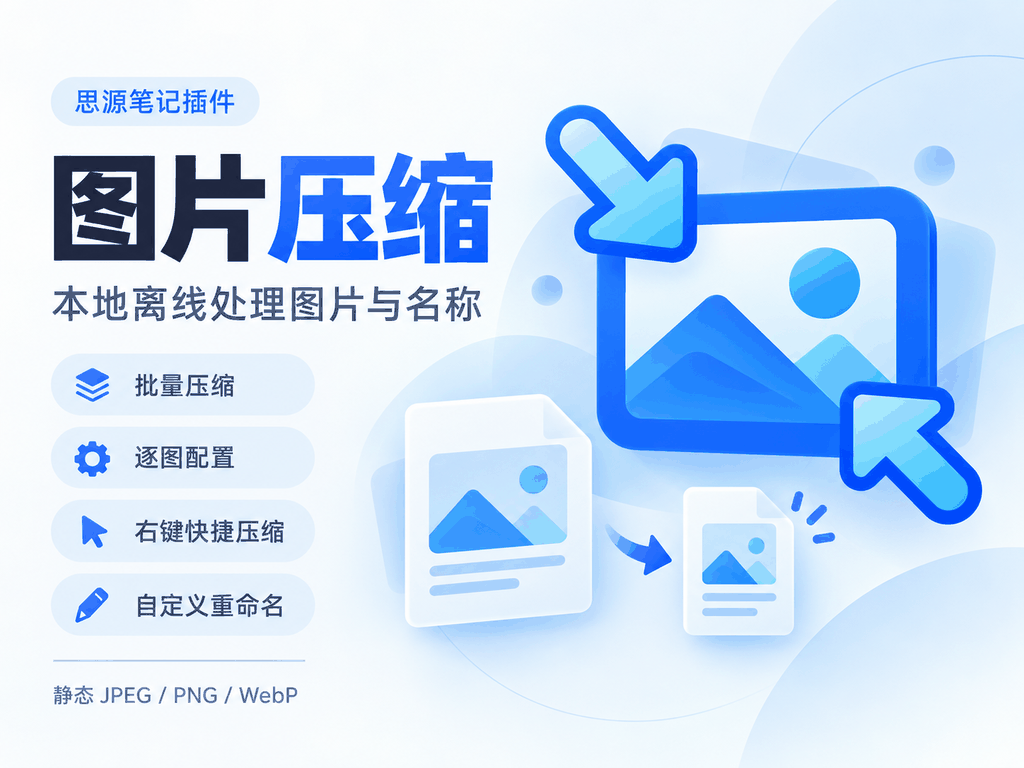
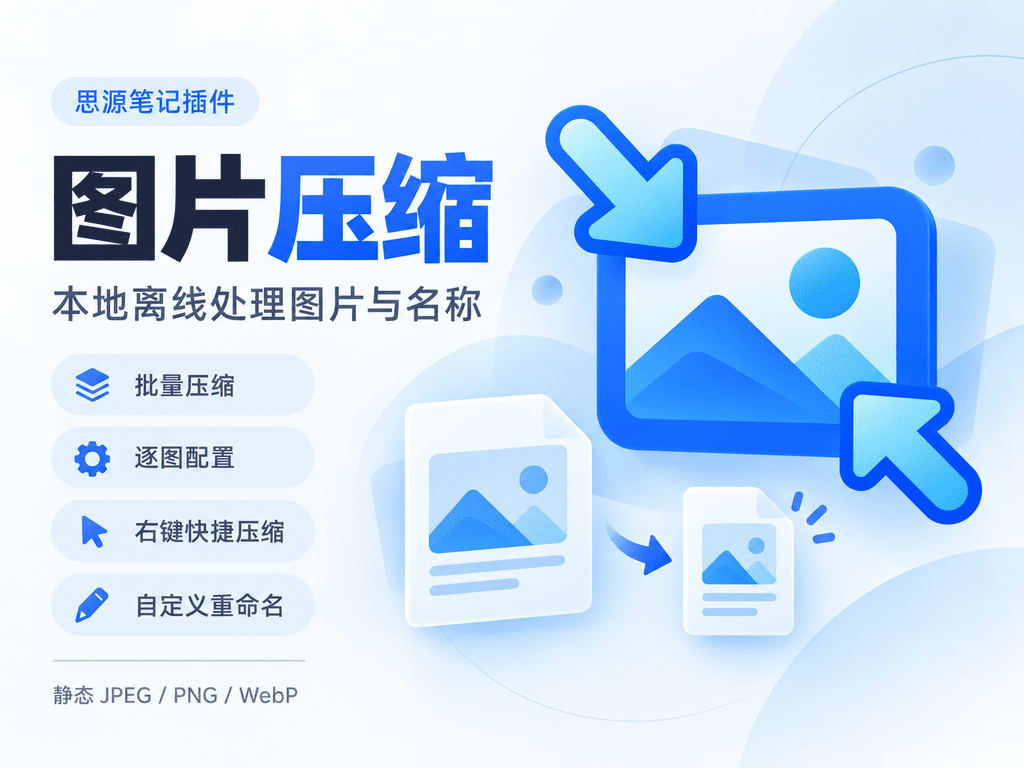
Release 0.1.1: reduce package and preview size

diff --git a/scripts/export-marketplace-assets.py b/scripts/export-marketplace-assets.py
@@ -1,18 +1,41 @@
 """Export generated artwork at the marketplace's required sizes; preserve icon alpha."""
+import argparse
 import json
+import shutil
+import subprocess
+import tempfile
 from pathlib import Path
 from PIL import Image
 
 ROOT = Path(__file__).resolve().parents[1]
 BRAND = ROOT / "assets" / "branding"
 
-def export(source, destination, size, limit=None):
+parser = argparse.ArgumentParser(description=__doc__)
+parser.add_argument("--pngquant", default="pngquant", help="Path to the pngquant executable")
+args = parser.parse_args()
+pngquant = shutil.which(args.pngquant)
+if not pngquant:
+    parser.error("pngquant is required for the compact preview; install it or pass --pngquant PATH")
+
+def export(source, destination, size, limit=None, compact=False):
     image = Image.open(BRAND / source)
     image = image.resize(size, Image.Resampling.LANCZOS)
     destination = ROOT / destination
     destination.parent.mkdir(parents=True, exist_ok=True)
-    image.save(destination, optimize=True)
-    if limit and destination.stat().st_size > limit:
+    if compact:
+        # Quantize from the full-colour master, never from an already reduced palette.
+        with tempfile.TemporaryDirectory(prefix="syic-preview-") as temporary:
+            input_path = Path(temporary) / "preview-rgb.png"
+            output_path = Path(temporary) / "preview.png"
+            image.convert("RGB").save(input_path)
+            subprocess.run([pngquant, "--quality=75-85", "--speed=1", "--strip",
+                            "--output", str(output_path), "--", str(input_path)], check=True)
+            if limit:
+                assert output_path.stat().st_size <= limit, "Compact preview exceeds size limit"
+            shutil.copyfile(output_path, destination)
+    else:
+        image.save(destination, optimize=True)
+    if not compact and limit and destination.stat().st_size > limit:
         # Export optimisation only. Master illustrations remain unchanged.
         for colors in [256, 192, 128]:
             image.convert("RGB").quantize(colors=colors, method=Image.Quantize.MEDIANCUT).save(destination, optimize=True)
@@ -25,7 +48,7 @@ def export(source, destination, size, limit=None):
 results = [
     export("icon-source.png", "icon.png", (160, 160), 64 * 1024),
     export("icon-source.png", "assets/branding/icon-512.png", (512, 512)),
-    export("preview-source.png", "preview.png", (1024, 768), 512 * 1024),
+    export("preview-source.png", "preview.png", (1024, 768), 256 * 1024, compact=True),
     export("header-source.png", "assets/marketing/header.png", (1600, 600)),
 ]
 icon = Image.open(ROOT / "icon.png")

diff --git a/README.zh-CN.md b/README.zh-CN.md
@@ -1,6 +1,6 @@
 # 思源图片压缩
 
-![思源图片压缩插件题头图](assets/marketing/header.png)
+![思源图片压缩插件题头图](https://raw.githubusercontent.com/lisontowind/sy-imgcompression/main/assets/marketing/header.png)
 
 图片压缩为主功能，图片批量重命名为独立辅助功能。面向桌面版思源 3.8.5 及以上；
 内核还必须提供完整的 `findAssetReferences`、`relinkAsset` 接口。缺少接口或无法完整
@@ -43,41 +43,43 @@
 
 ## 图解使用
 
+教程截图和宣传图通过仓库链接加载，查看图片需要联网；图片压缩功能仍完全本地离线运行。
+
 ### 1. 批量压缩
 
 扫描当前文档，选择预设和尺寸，核对附件总大小，再应用到勾选图片。
 
-![批量压缩操作说明](assets/guide/01-batch-compression.png)
+![批量压缩操作说明](https://raw.githubusercontent.com/lisontowind/sy-imgcompression/main/assets/guide/01-batch-compression.png)
 
 ### 2. 逐图配置
 
 每张图片可以独立设置质量、格式和缩放；保存后不受全局参数修改影响。
 
-![逐图配置操作说明](assets/guide/02-individual-settings.png)
+![逐图配置操作说明](https://raw.githubusercontent.com/lisontowind/sy-imgcompression/main/assets/guide/02-individual-settings.png)
 
 ### 3. 点击生成压缩预览
 
 先对比尺寸、体积和画面，再返回主面板应用。查看原图本身不会触发压缩。
 
-![压缩预览操作说明](assets/guide/03-compression-preview.png)
+![压缩预览操作说明](https://raw.githubusercontent.com/lisontowind/sy-imgcompression/main/assets/guide/03-compression-preview.png)
 
 ### 4. 自定义图片名称
 
 统一设置前缀，或逐张单独命名；思源 ID 与原扩展名自动保留。
 
-![自定义命名操作说明](assets/guide/04-custom-names.png)
+![自定义命名操作说明](https://raw.githubusercontent.com/lisontowind/sy-imgcompression/main/assets/guide/04-custom-names.png)
 
 ### 5. 右键快捷压缩
 
 在独立选项框保存常用配置，之后从图片右键直接执行快捷压缩。
 
-![右键快捷压缩配置说明](assets/guide/05-quick-compression.png)
+![右键快捷压缩配置说明](https://raw.githubusercontent.com/lisontowind/sy-imgcompression/main/assets/guide/05-quick-compression.png)
 
 ### 6. 任务记录与恢复
 
 原文件保留供恢复，文件缩减量不等于磁盘空间立即释放。恢复前会核验文件及引用。
 
-![任务记录与恢复说明](assets/guide/06-history-recovery.png)
+![任务记录与恢复说明](https://raw.githubusercontent.com/lisontowind/sy-imgcompression/main/assets/guide/06-history-recovery.png)
 
 ## 共享引用与恢复
 
@@ -109,6 +111,8 @@ npm run dev
 ```
 
 构建结果在 `dist/`，`package.zip` 根目录直接包含插件文件。
-不使用 CDN、外部 API Key 或云端压缩，不自动压缩粘贴图片，不后台清理原附件。
+安装包不包含教程截图和宣传素材，保留 `icon.png`、`preview.png`；
+运行 `npm run package:assets` 可单独打包上架素材。
+图片处理不使用 CDN、外部 API Key 或云端压缩，不自动压缩粘贴图片，不后台清理原附件。
 第三方声明见 `THIRD-PARTY-NOTICES.md` 及安装包中的 `licenses/`。
 测试结果和平台覆盖情况见源码仓库中的 `VALIDATION.md`。

diff --git a/README.md b/README.md
@@ -1,6 +1,6 @@
 # Image Compression for SiYuan
 
-![Image Compression for SiYuan](assets/marketing/header.png)
+![Image Compression for SiYuan](https://raw.githubusercontent.com/lisontowind/sy-imgcompression/main/assets/marketing/header.png)
 
 Offline image compression comes first. An independent image-renaming tab simplifies
 image filenames while preserving terminal SiYuan IDs. Desktop SiYuan 3.8.5 or newer is required;
@@ -54,30 +54,32 @@ Old journals, including document-prefix renames, remain recoverable.
 ## Illustrated guide (Chinese)
 
 The illustrations below use the actual plugin interface with example documents.
+Guide and promotional images are hosted in the repository and require an internet
+connection to view. Image compression itself remains fully offline.
 
 1. Choose batch settings and review attachment totals before applying.
 
-![Batch compression](assets/guide/01-batch-compression.png)
+![Batch compression](https://raw.githubusercontent.com/lisontowind/sy-imgcompression/main/assets/guide/01-batch-compression.png)
 
 2. Set independent parameters for individual images.
 
-![Individual image settings](assets/guide/02-individual-settings.png)
+![Individual image settings](https://raw.githubusercontent.com/lisontowind/sy-imgcompression/main/assets/guide/02-individual-settings.png)
 
 3. Generate a preview explicitly, compare the results, then apply from the main panel.
 
-![Compression preview](assets/guide/03-compression-preview.png)
+![Compression preview](https://raw.githubusercontent.com/lisontowind/sy-imgcompression/main/assets/guide/03-compression-preview.png)
 
 4. Use a batch prefix or individual names while retaining SiYuan IDs and extensions.
 
-![Custom image names](assets/guide/04-custom-names.png)
+![Custom image names](https://raw.githubusercontent.com/lisontowind/sy-imgcompression/main/assets/guide/04-custom-names.png)
 
 5. Save independent quick settings and compress directly from the image context menu.
 
-![Quick compression settings](assets/guide/05-quick-compression.png)
+![Quick compression settings](https://raw.githubusercontent.com/lisontowind/sy-imgcompression/main/assets/guide/05-quick-compression.png)
 
 6. Review job results and restore matching references. Original files are retained.
 
-![History and recovery](assets/guide/06-history-recovery.png)
+![History and recovery](https://raw.githubusercontent.com/lisontowind/sy-imgcompression/main/assets/guide/06-history-recovery.png)
 
 ## Shared attachments and recovery
 
@@ -116,7 +118,10 @@ npm run dev
 ```
 
 Build output is in `dist/`; `package.zip` has plugin files at the archive root.
-No CDN, external API key, cloud compression, automatic paste handling or background
-original-file cleanup is used. See `THIRD-PARTY-NOTICES.md` and `licenses/` in the package.
+Guide and promotional artwork is excluded from the plugin package; `icon.png` and
+`preview.png` are retained. Run `npm run package:assets` for the separate artwork archive.
+Image processing uses no CDN, external API key or cloud compression. Automatic paste
+handling and background original-file cleanup are disabled.
+See `THIRD-PARTY-NOTICES.md` and `licenses/` in the package.
 
 For verification results and platform coverage, see `VALIDATION.md` in the source repository.

diff --git a/assets/README.md b/assets/README.md
@@ -1,12 +1,12 @@
 # 集市与使用说明素材
 
 图标、集市封面、宽版题头图使用内置 `image_gen` 生成，统一沿用插件的蓝色视觉风格。
-原始生成图及完整提示词保存在 `branding/`；导出只调整尺寸与 PNG 编码，不改变图标透明通道。
+原始生成图及完整提示词保存在 `branding/`；导出调整尺寸与 PNG 编码，预览图使用调色板压缩，不改变图标透明通道。
 
 | 文件 | 规格 | 用途 |
 | --- | --- | --- |
 | `../icon.png` | 160 × 160，RGBA，透明背景，≤ 64 KiB | 集市图标 |
-| `../preview.png` | 1024 × 768，PNG，≤ 512 KiB | 集市预览封面 |
+| `../preview.png` | 1024 × 768，PNG，导出目标 ≤ 256 KiB | 集市预览封面 |
 | `marketing/header.png` | 1600 × 600，PNG | README、介绍文章题头图 |
 | `branding/icon-512.png` | 512 × 512，RGBA，透明背景 | 高分辨率图标备用 |
 | `guide/01-batch-compression.png` | 1600 × 1200 | 批量压缩与附件统计 |
@@ -17,11 +17,15 @@
 | `guide/06-history-recovery.png` | 1600 × 1200 | 任务记录、恢复与原文件保留 |
 
 图标和预览图的规格依据：[思源官方插件示例](https://github.com/siyuan-note/plugin-sample/blob/main/README.zh-CN.md)。
-`plugin.json` 已声明图标、预览图文件；这些图片及 README 使用的所有插图都会打入安装包，支持本地显示。
+`plugin.json` 已声明图标、预览图文件，这两个文件随插件打包。
+README 的题头图和教程截图通过仓库链接加载，不放入安装包；高清原稿仍保存在仓库中。
 
 说明图采用生产构建、独立思源内核和浏览器宿主适配器，示例数据与用户工作空间隔离。
 截图页面只增加标题、步骤说明与编号标记，插件内容来自当前真实实现；未使用 AI 生成界面或虚构压缩比。
 生成后的图片清单保存在 `guide/manifest.json`，示例环境证据在 `.cache/last-guide.json` 指向的目录。
 
-重新导出集市图片：使用安装了 Pillow 的 Python 执行 `scripts/export-marketplace-assets.py`。
+重新导出集市图片：使用安装了 Pillow 的 Python 执行 `scripts/export-marketplace-assets.py`，
+并确保 [pngquant](https://pngquant.org/) 在 PATH 中，或传入 `--pngquant 可执行文件路径`。
+预览图从高清原稿按 `--quality=75-85 --speed=1 --strip` 导出，保留 1024 × 768 尺寸；
+该步骤只用于素材导出，插件安装和运行不需要 pngquant。
 重新拍摄说明图：先运行 `npm run build`，再运行 `npm run docs:images`；需要本机思源内核与 Edge。

diff --git a/CHANGELOG.md b/CHANGELOG.md
@@ -1,5 +1,17 @@
 # Changelog
 
+## 0.1.1 — 2026-10-16
+
+- 教程截图和宣传素材移出安装包，中英文 README 改用公开图片链接；查看说明图片需要联网。
+- 集市预览图保持 1024 × 768，从 412,517 B 压缩至 208,369 B，高清原稿保留。
+- 打包时排除旧构建目录中残留的教程及宣传素材，保留图标、预览图、离线编码器和许可证。
+- 更新素材导出脚本与验证记录；安装包从约 3.19 MiB 缩小至约 821 KiB，图片处理继续完全离线。
+
+Move guide and promotional artwork out of the plugin package and load README
+images from repository URLs. Reduce the 1024 × 768 preview by 49.5%, keep the
+full-resolution master, and exclude stale documentation artwork when packaging.
+The plugin archive is about 75% smaller than 0.1.0; image processing stays offline.
+
 ## 0.1.0 — 2026-10-16
 
 首次发布 / Initial release.
